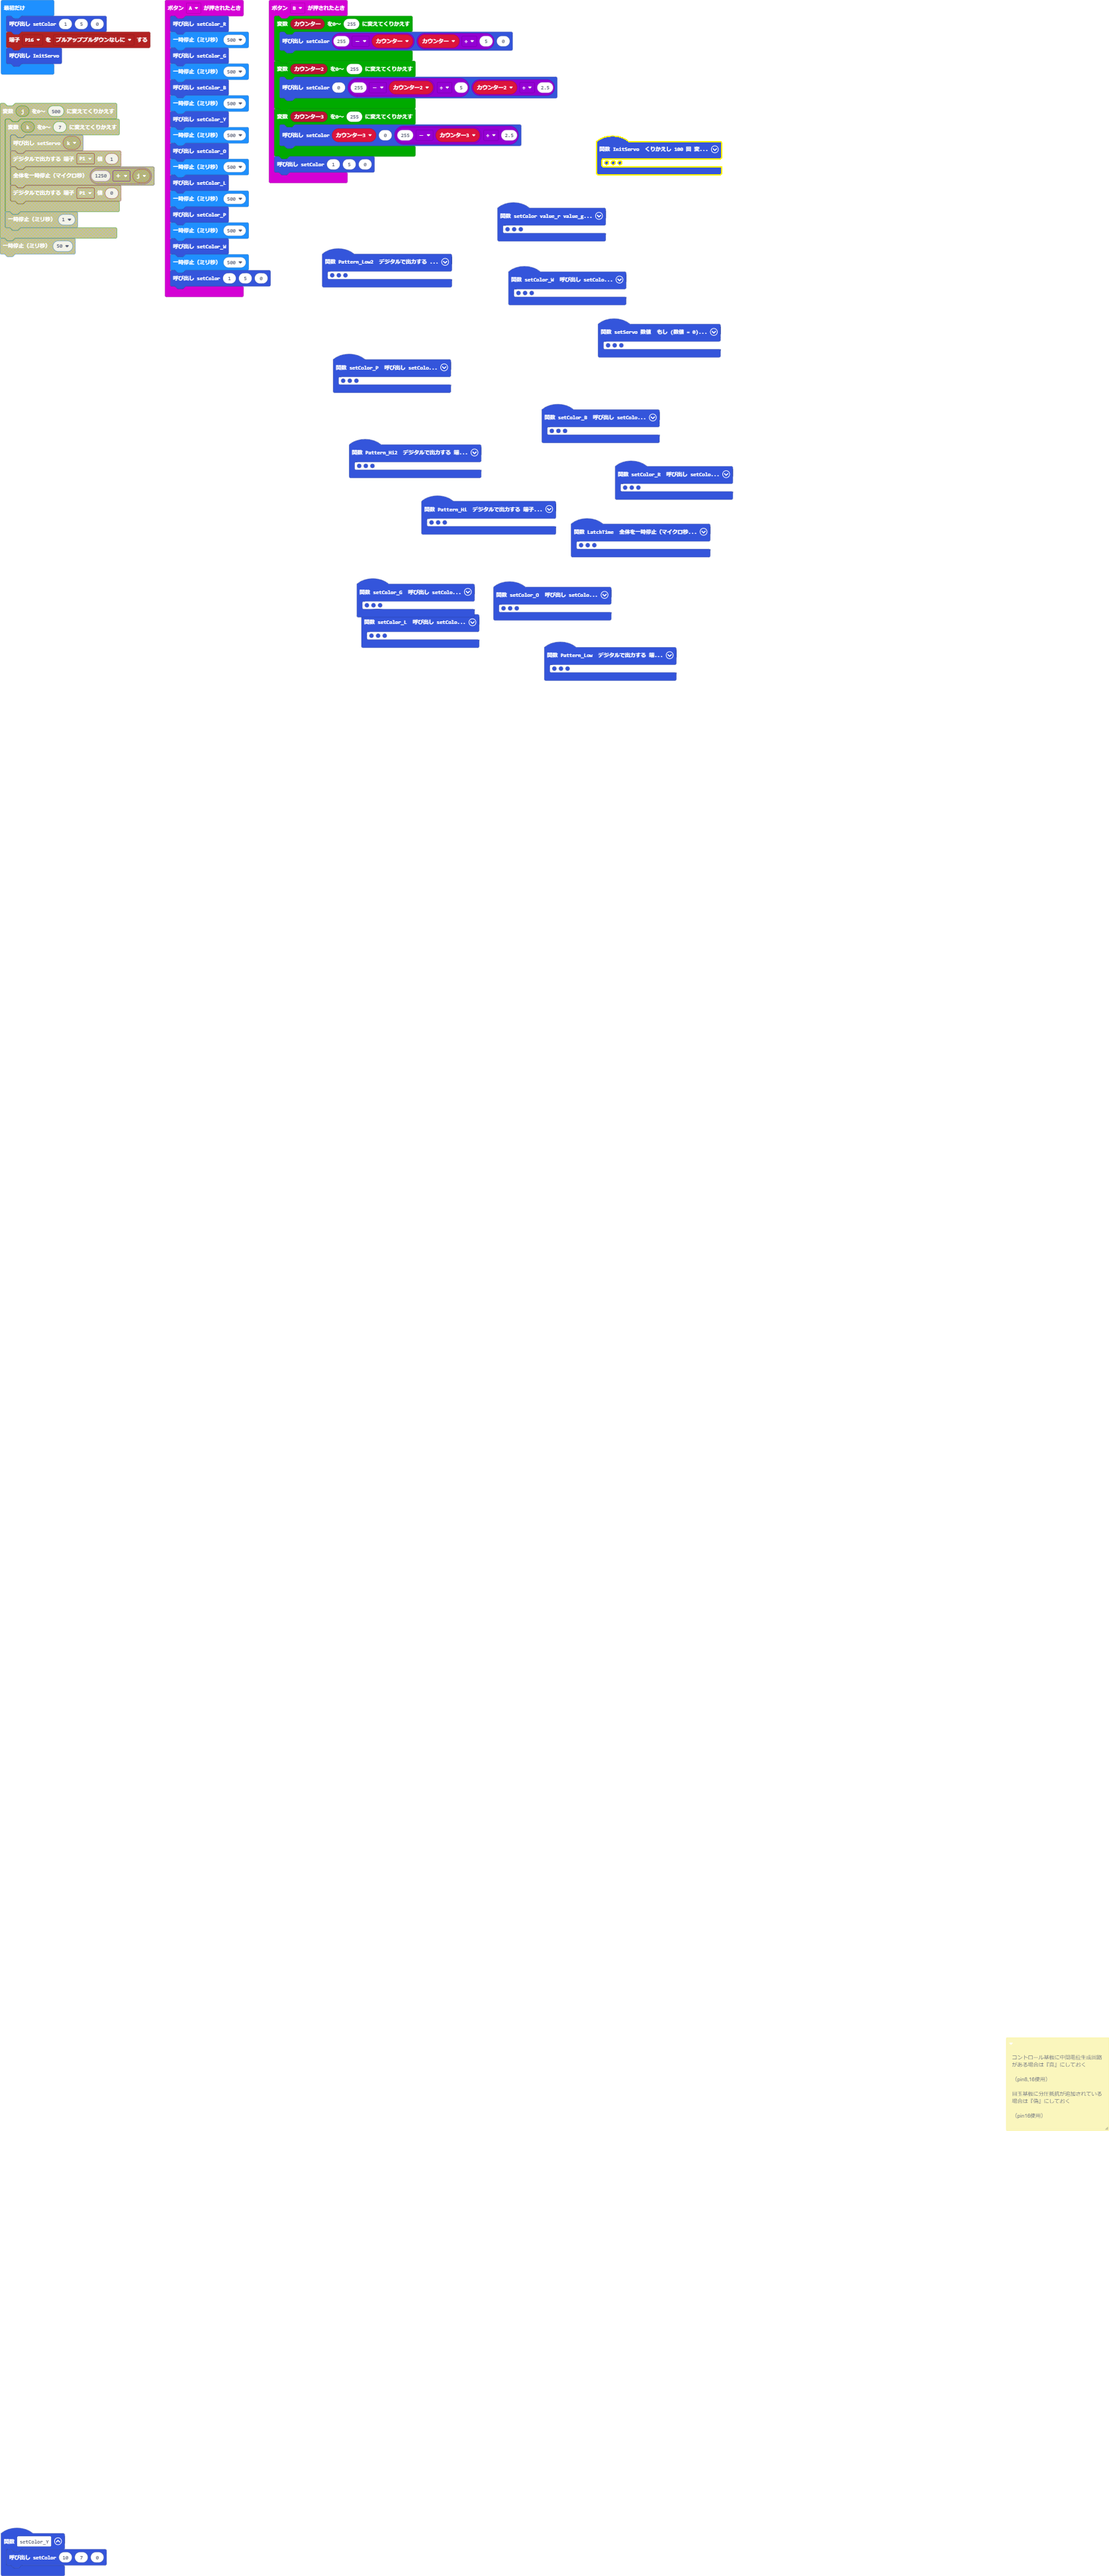
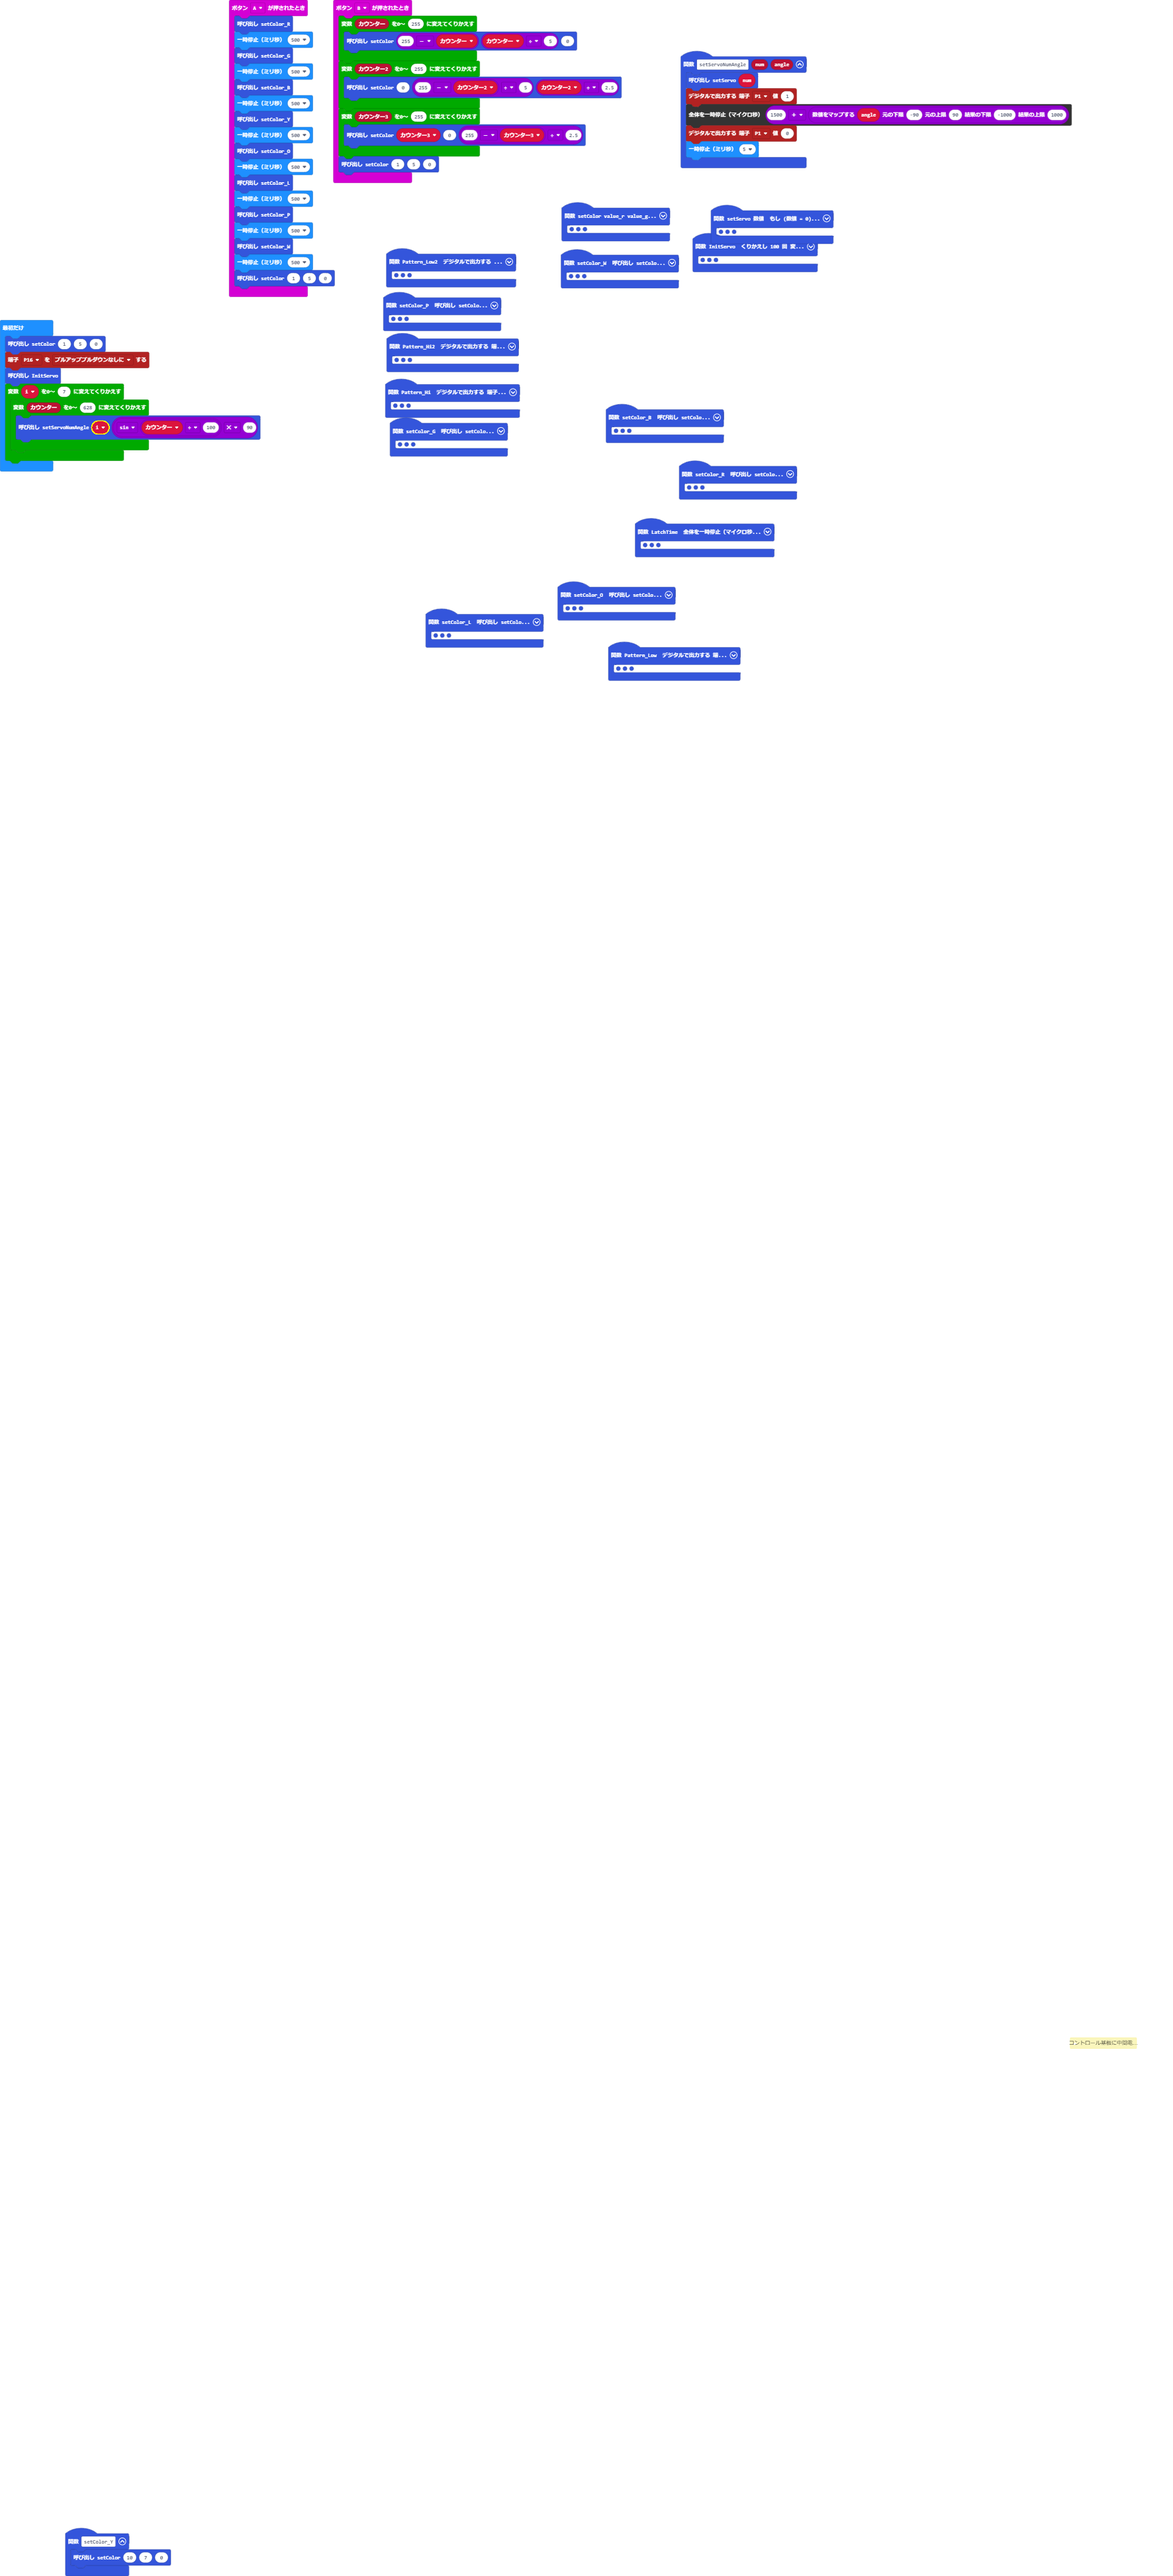
更新 pxt.json, main.blocks, main.ts

diff --git a/main.ts b/main.ts
@@ -88,8 +88,8 @@ function setColor_G () {
 // 1, 0, 1 | 7
 function InitServo () {
     for (let index = 0; index < 100; index++) {
-        for (let i = 0; i <= 7; i++) {
-            setServo(i)
+        for (let init_i = 0; init_i <= 7; init_i++) {
+            setServo(init_i)
             pins.digitalWritePin(DigitalPin.P1, 1)
             control.waitMicros(1500)
             pins.digitalWritePin(DigitalPin.P1, 0)
@@ -155,6 +155,13 @@ input.onButtonPressed(Button.B, function () {
 function setColor_R () {
     setColor(10, 0, 0)
 }
+function setServoNumAngle (num: number, angle: number) {
+    setServo(num)
+    pins.digitalWritePin(DigitalPin.P1, 1)
+    control.waitMicros(1500 + Math.map(angle, -90, 90, -1000, 1000))
+    pins.digitalWritePin(DigitalPin.P1, 0)
+    basic.pause(5)
+}
 // RGB順
 function setColor (value_r: number, value_g: number, value_b: number) {
     let 配列: number[] = []
@@ -196,3 +203,8 @@ let temp = 0
 setColor(1, 5, 0)
 pins.setPull(DigitalPin.P16, PinPullMode.PullNone)
 InitServo()
+for (let i = 0; i <= 7; i++) {
+    for (let カウンター = 0; カウンター <= 628; カウンター++) {
+        setServoNumAngle(i, Math.sin(カウンター / 100) * 90)
+    }
+}
